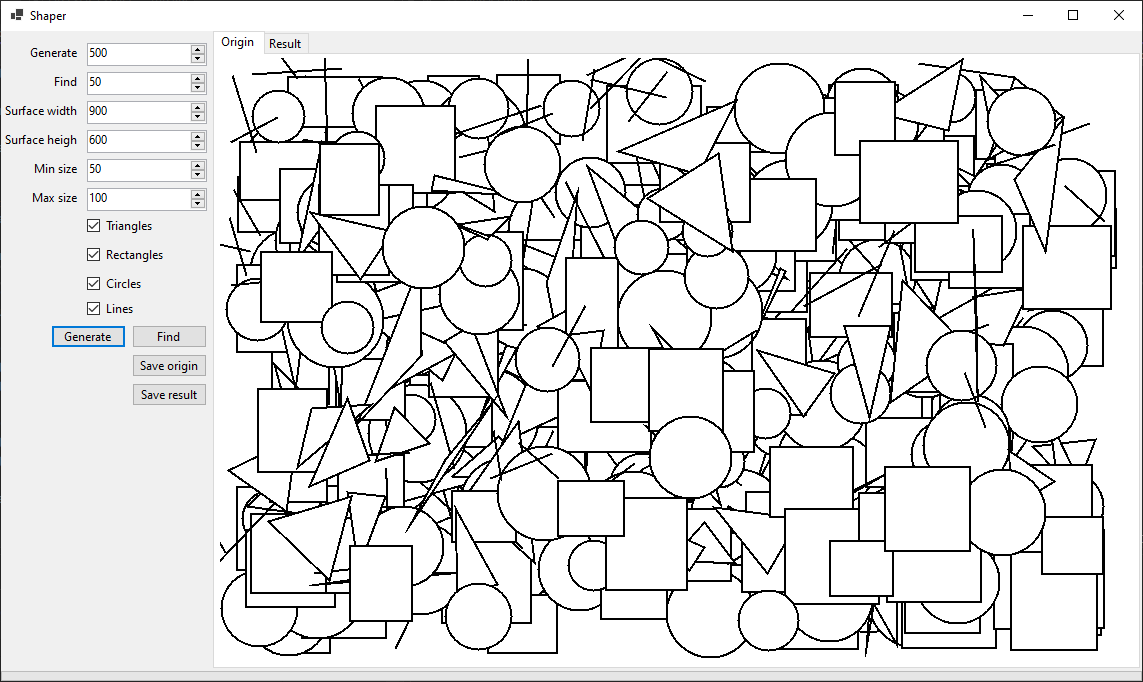
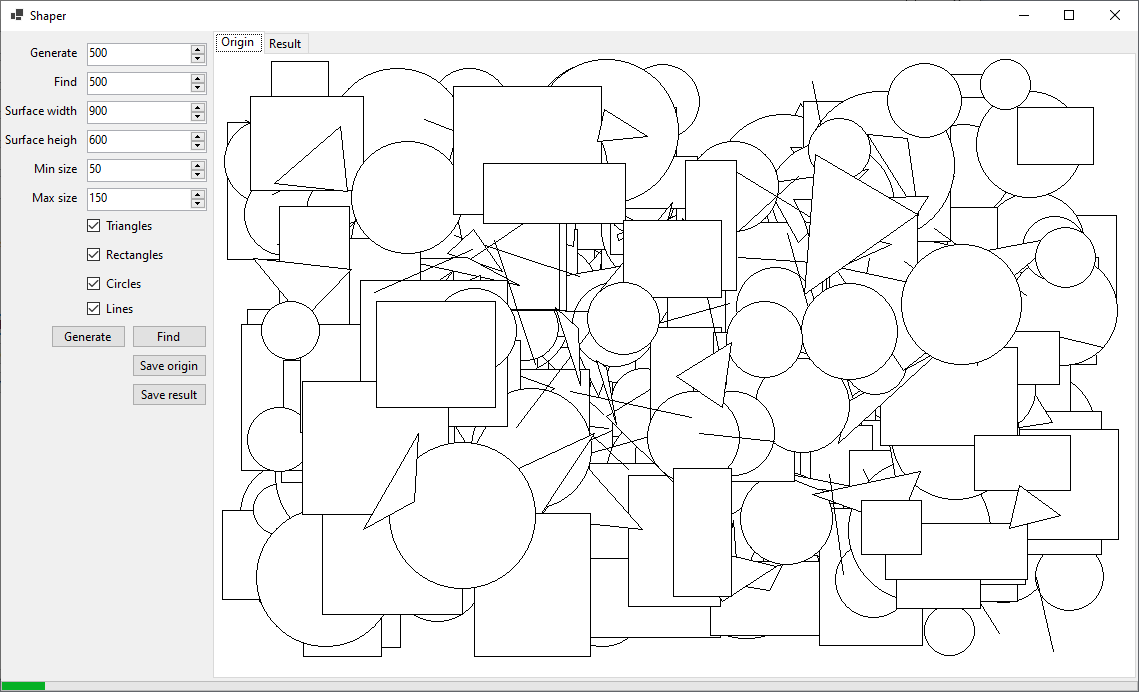
add two tests for issues

diff --git a/ShaperClient/Form1.cs b/ShaperClient/Form1.cs
@@ -28,7 +28,7 @@ namespace ShaperClient
             pictureBox1.Refresh();
             var image = new Bitmap(width, height);
             using var graphics = Graphics.FromImage(image);
-            using var pen = new Pen(Color.FromKnownColor(KnownColor.Black), 2);
+            using var pen = new Pen(Color.FromKnownColor(KnownColor.Black));
             using var brush = new SolidBrush(Color.FromKnownColor(KnownColor.White));
 
             DrawShapes(graphics, pen, brush, Shapes);
@@ -45,7 +45,7 @@ namespace ShaperClient
 
                 if (shape is Shaper.Shapes.Rectangle r) DrawRectangle(graphics, pen, brush, r);
 
-                if (shape is Line l) DrawLine(graphics, pen, brush, l);
+                if (shape is Line l) DrawLine(graphics, pen, l);
 
                 if (shape is Triangle t) DrawTriangle(graphics, pen, brush, t);
             }
@@ -57,7 +57,7 @@ namespace ShaperClient
             graphics.DrawEllipse(pen, new System.Drawing.Rectangle((int)(c.Center.X - c.Radius), (int)(c.Center.Y - c.Radius), (int)(c.Radius * 2), (int)(c.Radius * 2)));
         }
 
-        private void DrawLine(Graphics graphics, Pen pen, Brush brush, Line l)
+        private void DrawLine(Graphics graphics, Pen pen, Line l)
         {
             graphics.DrawLine(pen, new Point((int)l.A.X, (int)l.A.Y), new Point((int)l.B.X, (int)l.B.Y));
         }
@@ -111,7 +111,7 @@ namespace ShaperClient
             var image = pictureBox1.Image.Clone() as Image;
 
             using var graphics = Graphics.FromImage(image!);
-            using var pen = new Pen(Color.FromKnownColor(KnownColor.DarkGreen), 4);
+            using var pen = new Pen(Color.FromKnownColor(KnownColor.DarkGreen), 1);
             using var brush = new SolidBrush(Color.FromKnownColor(KnownColor.Green));
 
             DrawShapes(graphics, pen, brush, shapesToDraw);

diff --git a/Shaper/Generator.cs b/Shaper/Generator.cs
@@ -61,22 +61,23 @@ namespace Shaper
             int x1 = _random.Next(0 + longestSideLength, surfaceWidth - longestSideLength);
             int y1 = _random.Next(0 + longestSideLength, surfaceHeight - longestSideLength);
 
-            // Generate a random angle for the second side of the triangle
-            double angle = _random.NextDouble() * 2 * Math.PI;
+            // Generate random angles for the two lines
+            double angle1 = _random.NextDouble() * 2 * Math.PI;
+            // Generate sharp angle
+            double angle2 = angle1 + (_random.NextDouble()) * Math.PI / 2;
 
             // Calculate the end point of the second side of the triangle
-            int x2 = (int)(x1 + longestSideLength * Math.Cos(angle));
-            int y2 = (int)(y1 + longestSideLength * Math.Sin(angle));
+            int x2 = (int)(x1 + longestSideLength * Math.Cos(angle1));
+            int y2 = (int)(y1 + longestSideLength * Math.Sin(angle1));
 
             // Calculate the distance between the first and second points
-            double distance = Math.Sqrt(Math.Pow(x2 - x1, 2) + Math.Pow(y2 - y1, 2));
+            // double distance = Math.Sqrt(Math.Pow(x2 - x1, 2) + Math.Pow(y2 - y1, 2));
 
-            // Generate a random angle for the third side of the triangle
-            double angle2 = _random.NextDouble() * 2 * Math.PI;
+            double distance = _random.Next(minSize, longestSideLength);
 
             // Calculate the end point of the third side of the triangle
-            int x3 = (int)(x1 + distance * Math.Cos(angle2 + Math.PI / 3));
-            int y3 = (int)(y1 + distance * Math.Sin(angle2 + Math.PI / 3));
+            int x3 = (int)(x1 + distance * Math.Cos(angle2));
+            int y3 = (int)(y1 + distance * Math.Sin(angle2));
 
             var triangle = new Triangle(x1, y1, x2, y2, x3, y3);
 

diff --git a/ShaperClient/Form1.Designer.cs b/ShaperClient/Form1.Designer.cs
@@ -137,7 +137,7 @@ namespace ShaperClient
             this.numericUpDown1.Size = new System.Drawing.Size(120, 23);
             this.numericUpDown1.TabIndex = 10;
             this.numericUpDown1.Value = new decimal(new int[] {
-            50,
+            500,
             0,
             0,
             0});
@@ -164,7 +164,7 @@ namespace ShaperClient
             this.numericUpDown2.Size = new System.Drawing.Size(120, 23);
             this.numericUpDown2.TabIndex = 11;
             this.numericUpDown2.Value = new decimal(new int[] {
-            5,
+            500,
             0,
             0,
             0});
@@ -191,7 +191,7 @@ namespace ShaperClient
             this.numericUpDown3.Size = new System.Drawing.Size(120, 23);
             this.numericUpDown3.TabIndex = 12;
             this.numericUpDown3.Value = new decimal(new int[] {
-            600,
+            900,
             0,
             0,
             0});
@@ -312,7 +312,7 @@ namespace ShaperClient
             this.numericUpDown6.Size = new System.Drawing.Size(120, 23);
             this.numericUpDown6.TabIndex = 19;
             this.numericUpDown6.Value = new decimal(new int[] {
-            100,
+            150,
             0,
             0,
             0});

diff --git a/ShaperTests/Shaper/IntersectionTests.cs b/ShaperTests/Shaper/IntersectionTests.cs
@@ -43,6 +43,24 @@ namespace ShaperTests.Shaper
         }
 
         [Test]
+        public void CircleVerticalLine_Intersection()
+        {
+            var figure1 = new Circle(50, 50, 50);
+            var figure2 = new Line(99, 0, 99, 99);
+
+            Assert.That(_checker.CheckIntersection(figure1, figure2), Is.True);
+        }
+
+        [Test]
+        public void CircleRectangleRight_Intersection()
+        {
+            var figure1 = new Circle(235, 220, 150);
+            var figure2 = new Rectangle(379, 142, 300, 300);
+
+            Assert.That(_checker.CheckIntersection(figure1, figure2), Is.True);
+        }
+
+        [Test]
         public void CircleLine_NoIntersection()
         {
             var figure1 = new Circle(50, 50, 50);
@@ -82,7 +100,7 @@ namespace ShaperTests.Shaper
         public void CircleRectangle_NoIntersection()
         {
             var figure1 = new Circle(50, 50, 50);
-            var figure2 = new Rectangle(86, 86, 100, 100);
+            var figure2 = new Rectangle(87, 87, 100, 100);
 
             Assert.That(_checker.CheckIntersection(figure1, figure2), Is.False);
         }

diff --git a/Shaper/Shapes/Rectangle.cs b/Shaper/Shapes/Rectangle.cs
@@ -13,15 +13,15 @@ namespace Shaper.Shapes
 
         public Rectangle(double x, double y, double width, double height)
         {
-            Points.Add(new Point(x, y));
             Height = height;
             Width = width;
 
-            double minX = Points[0].X;
-            double minY = Points[0].Y;
-            double maxX = minX + Width;
-            double maxY = minY + Height;
+            double minX = x;
+            double minY = y;
+            double maxX = x + width;
+            double maxY = y + height;
 
+            Points.Add(new Point(minX, minY));  // top left
             Points.Add(new Point(maxX, minY));  // top right
             Points.Add(new Point(minX, maxY));  // bottom left
             Points.Add(new Point(maxX, maxY));  // bottom right

diff --git a/ShaperTests/Shaper/GeneratorTests.cs b/ShaperTests/Shaper/GeneratorTests.cs
@@ -18,6 +18,20 @@ namespace ShaperTests.Shaper
         }
 
         [Test]
+        public void GetShapes_Triangles_AllTrianglesHasLongSide()
+        {
+            var generator = new Generator();
+            var shapes = generator.GetShapes(maxSize: 50, rectangles: false, lines: false, circles: false);
+
+            Assert.That(shapes.Any(s => s is not Triangle), Is.EqualTo(false));
+
+            Assert.That(shapes.Any(s => s.GetLines().Any(l =>
+                Math.Sqrt(Math.Pow(l.p1.X - l.p2.X, 2) + Math.Pow(l.p1.Y - l.p2.Y, 2)) > 50
+                )), Is.EqualTo(false));
+
+        }
+
+        [Test]
         public void GetShapes_Max50_ReturnsShapesWithCorrectSizes()
         {
             var generator = new Generator();

diff --git a/Shaper/ShapeSeeker.cs b/Shaper/ShapeSeeker.cs
@@ -52,7 +52,7 @@ namespace Shaper
                 {
                     result.Add(i);
                     NewShapeFound?.Invoke(this, shapes[i], i);
-                    Thread.Sleep(1000);
+                    //Thread.Sleep(1000);
                 }
                 else
                 {
